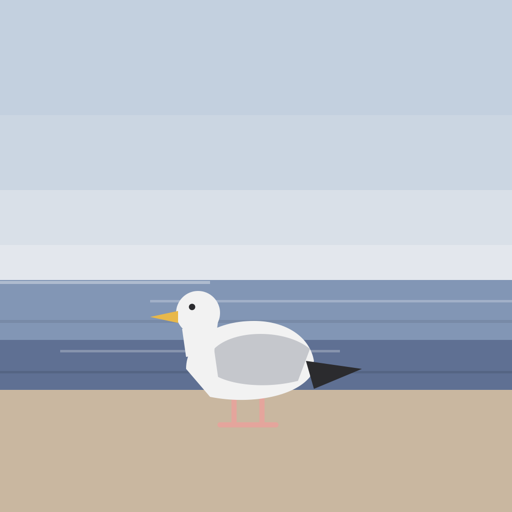
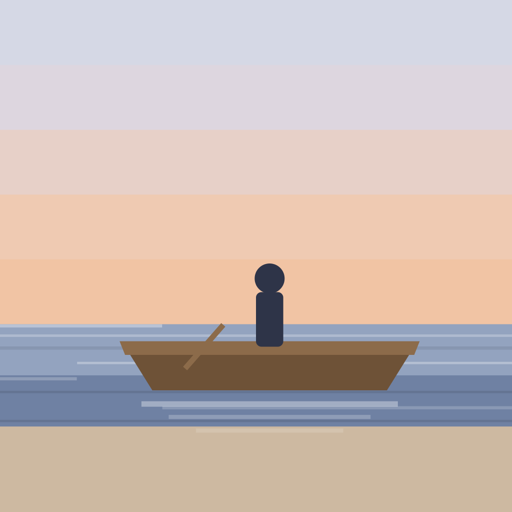
アイコンを「朝の湖と小舟」に差し替え
Claude-Session: https://claude.ai/code/session_0131txJPjUzWS6WuuLmenbXv

diff --git a/sw.js b/sw.js
@@ -1,6 +1,6 @@
 // 栞 SHIORI — オフラインでも開けるようにする小さな仕組み。
 // 画面と引用データはまずネットワークから取り、つながらないときだけ保存済みのものを出す。
-const VERSION = 'shiori-v1';
+const VERSION = 'shiori-v2';
 const SHELL = ['./', './index.html', './quotes.js', './manifest.webmanifest', './icons/icon-192.png', './icons/icon-512.png'];
 
 self.addEventListener('install', e => {
